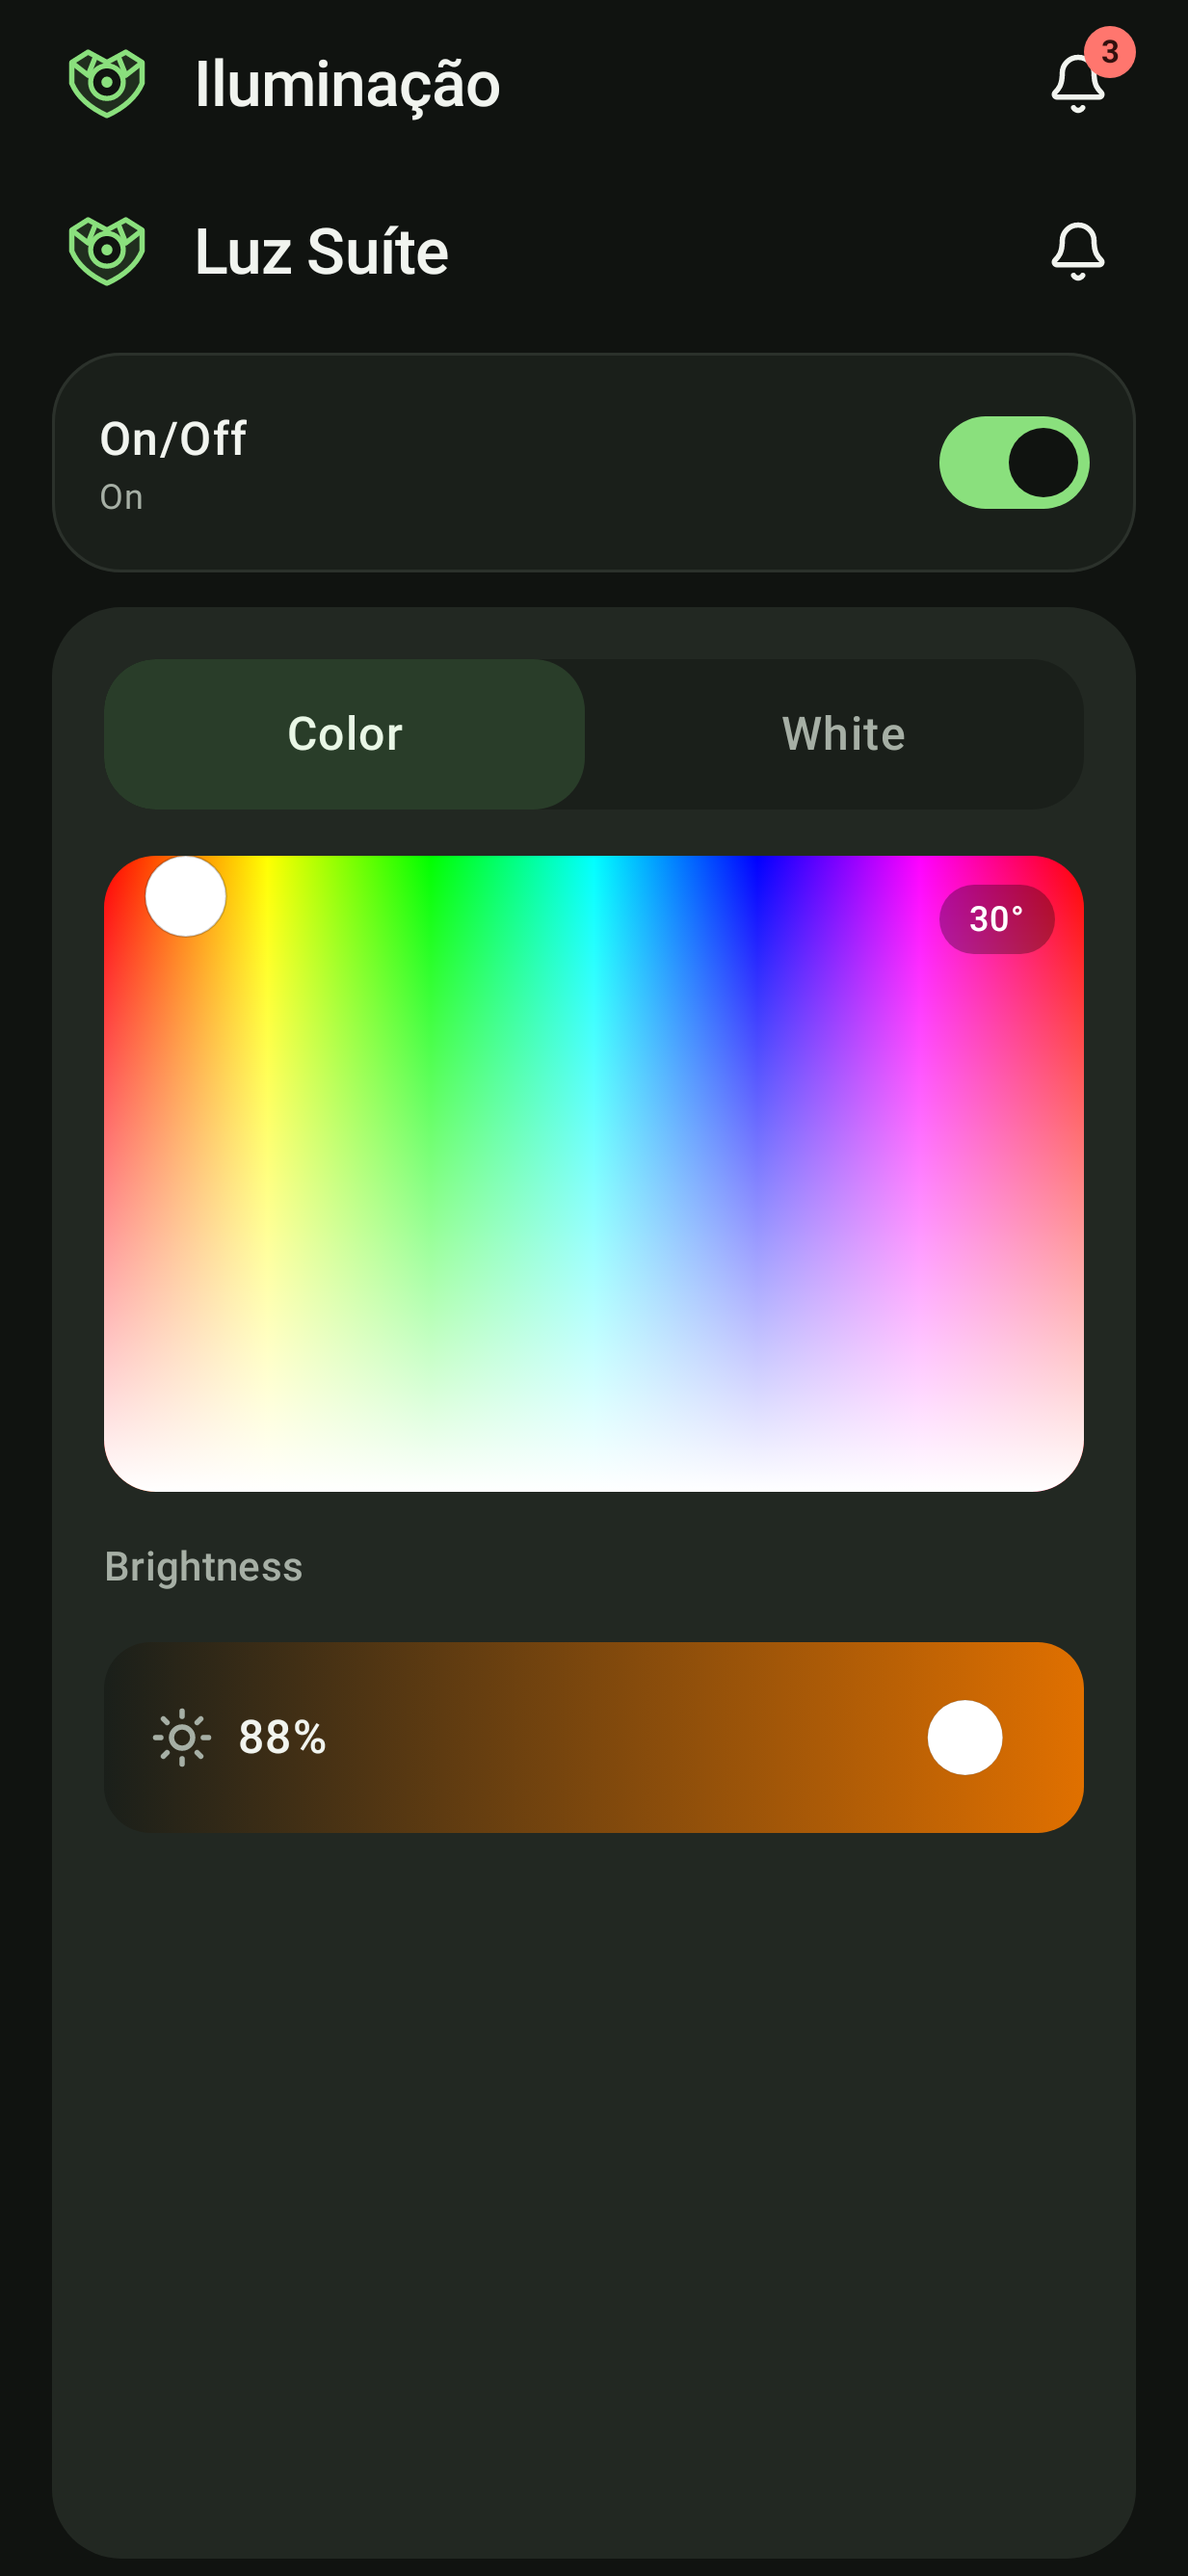
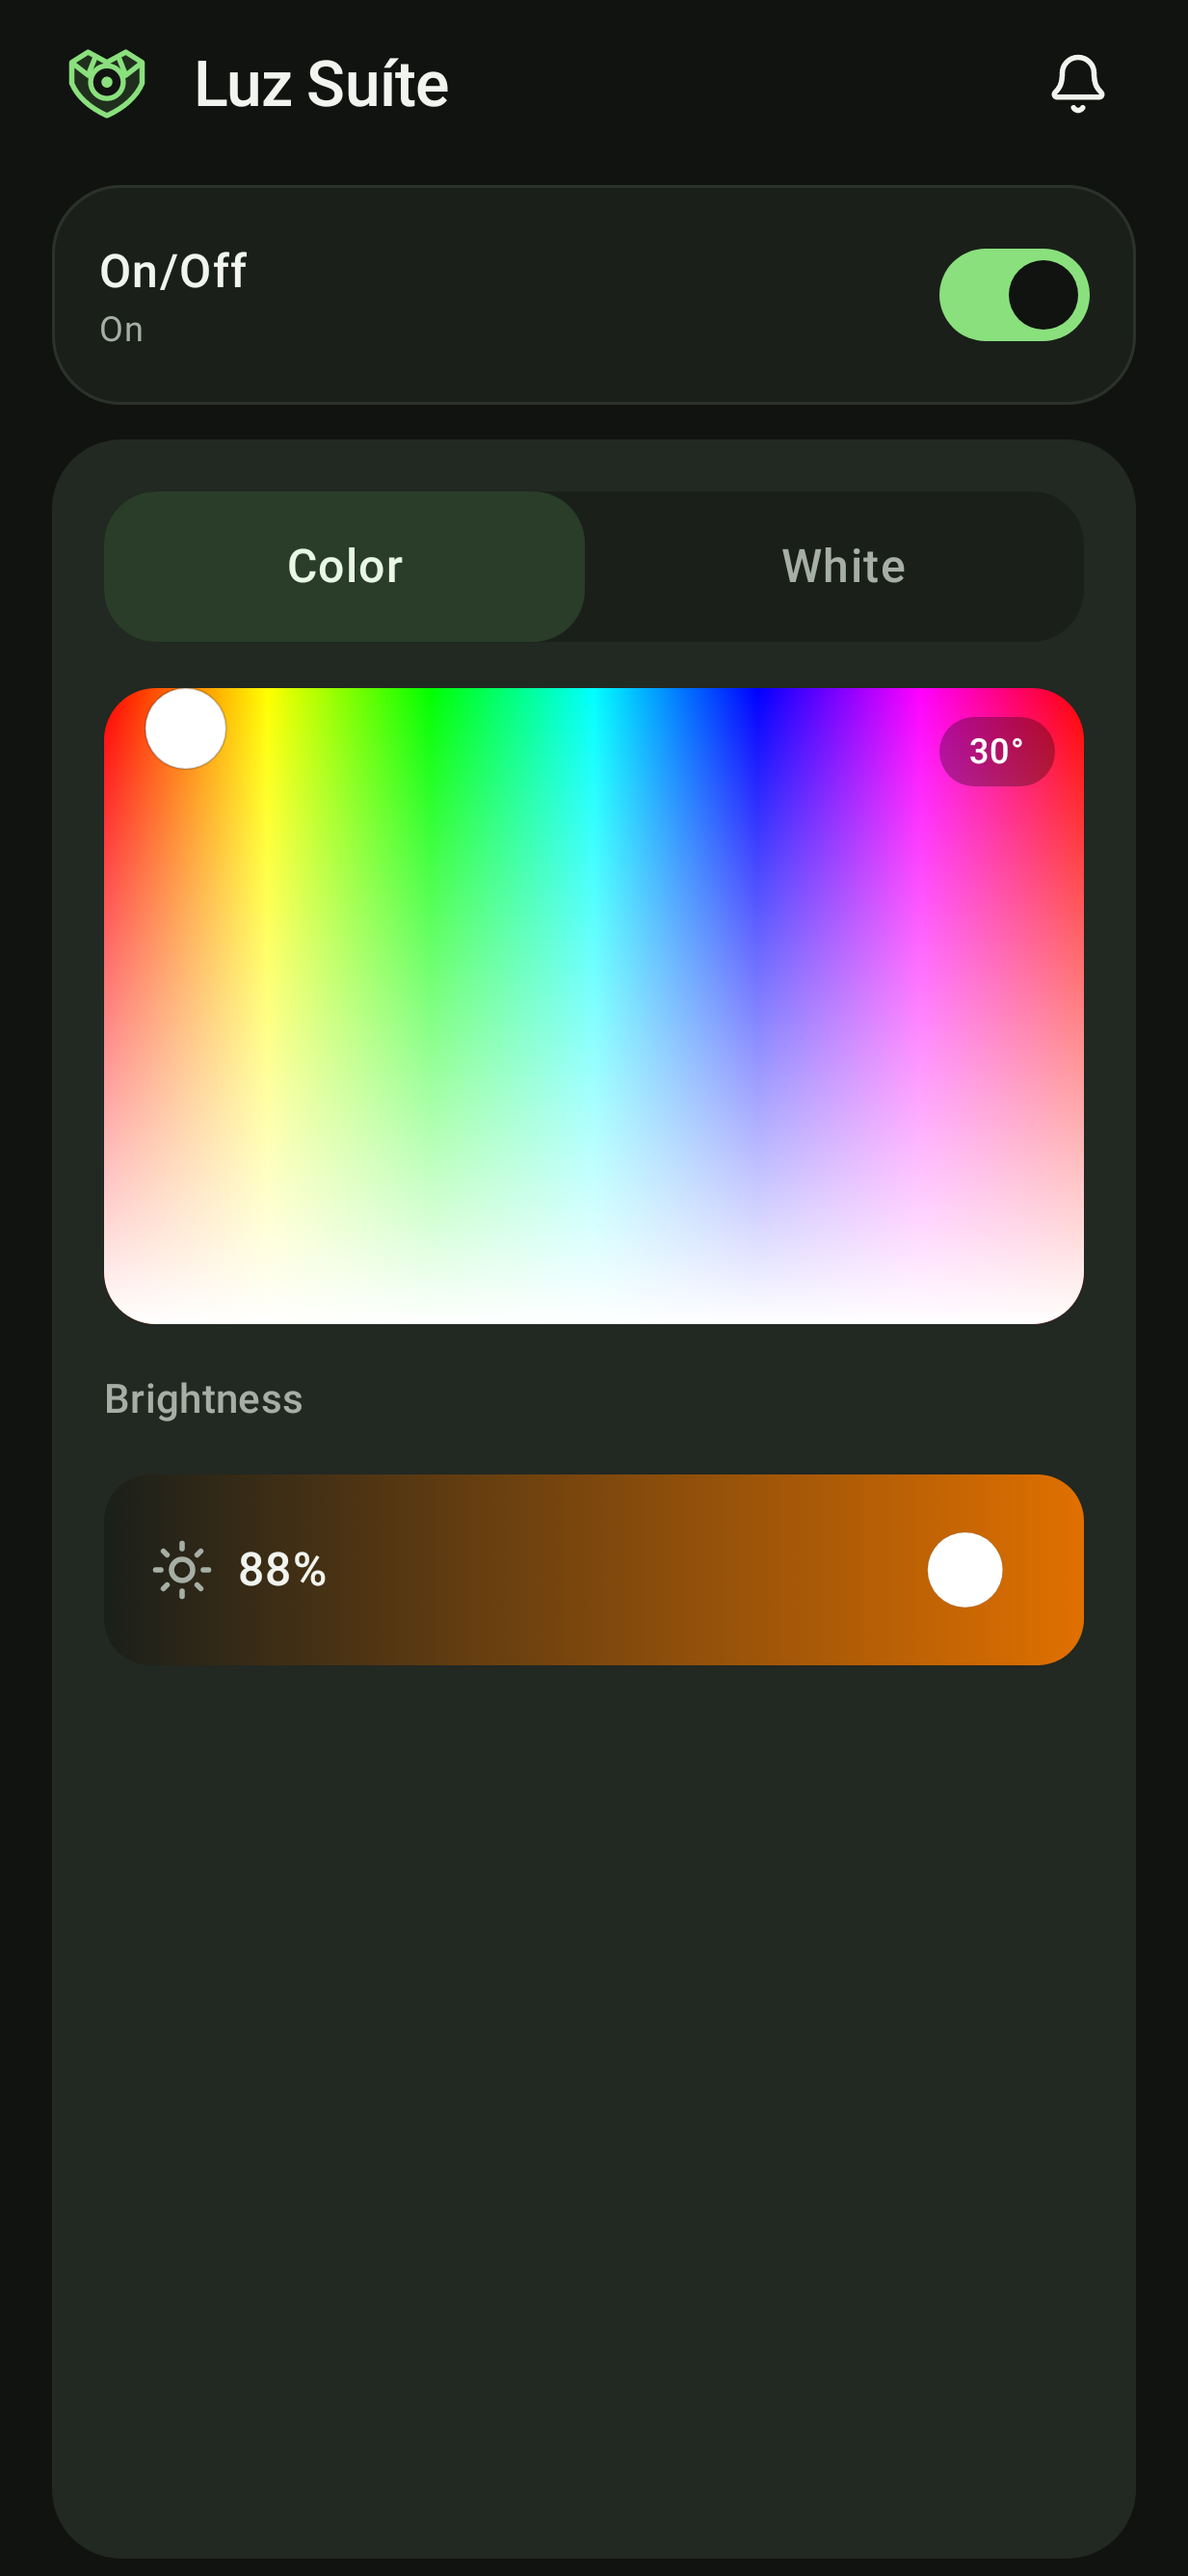
fix(app+landing): aviso de notificacoes lidas silenciado na origem do toast e capturas sem barra duplicada
- o toast "todas as notificacoes foram marcadas como lidas" nao aparece mais: a
  origem do toast ignora esse aviso (marcar como visto ao abrir e rotina)
- capturas da tela da luz refeitas sem a barra duplicada (o proprio conteudo ja
  traz a barra do app); lista de lampadas e tela da luz em claro e escuro

diff --git a/mobile/app/src/test/java/com/ferforastieri/valkyris/feature/lights/LandingScreenshotsTest.kt b/mobile/app/src/test/java/com/ferforastieri/valkyris/feature/lights/LandingScreenshotsTest.kt
@@ -54,6 +54,7 @@ class LandingScreenshotsTest {
         lastAddress = "192.0.2.111",
     )
 
+    /** Tela com a barra do app (usada nas telas que não trazem a própria). */
     private fun tela(modo: String, conteudo: @androidx.compose.runtime.Composable () -> Unit) {
         compose.setContent {
             ValkyrisTheme(mode = modo) {
@@ -61,6 +62,15 @@ class LandingScreenshotsTest {
                     ValkyrisTopBar(title = "Iluminação", onNotifications = {}, unreadNotifications = 3)
                     conteudo()
                 }
+            }
+        }
+    }
+
+    /** Tela cujo conteúdo já tem a barra do app (não duplicar). */
+    private fun telaPura(modo: String, conteudo: @androidx.compose.runtime.Composable () -> Unit) {
+        compose.setContent {
+            ValkyrisTheme(mode = modo) {
+                Column(Modifier.fillMaxSize().background(MaterialTheme.colorScheme.background)) { conteudo() }
             }
         }
     }
@@ -76,6 +86,6 @@ class LandingScreenshotsTest {
 
     @Test fun listaClara() { tela("light") { lista() }; compose.onRoot().captureRoboImage("build/screenshots/landing-lista-light.png") }
     @Test fun listaEscura() { tela("dark") { lista() }; compose.onRoot().captureRoboImage("build/screenshots/landing-lista-dark.png") }
-    @Test fun luzClara() { tela("light") { LightDetailContent(lamp("Luz Suíte", true, 30), false, {}, onChange = {}) }; compose.onRoot().captureRoboImage("build/screenshots/landing-luz-light.png") }
-    @Test fun luzEscura() { tela("dark") { LightDetailContent(lamp("Luz Suíte", true, 30), false, {}, onChange = {}) }; compose.onRoot().captureRoboImage("build/screenshots/landing-luz-dark.png") }
+    @Test fun luzClara() { telaPura("light") { LightDetailContent(lamp("Luz Suíte", true, 30), false, {}, onChange = {}) }; compose.onRoot().captureRoboImage("build/screenshots/landing-luz-light.png") }
+    @Test fun luzEscura() { telaPura("dark") { LightDetailContent(lamp("Luz Suíte", true, 30), false, {}, onChange = {}) }; compose.onRoot().captureRoboImage("build/screenshots/landing-luz-dark.png") }
 }

diff --git a/mobile/app/src/main/java/com/ferforastieri/valkyris/core/design/ToastMessageHost.kt b/mobile/app/src/main/java/com/ferforastieri/valkyris/core/design/ToastMessageHost.kt
@@ -49,6 +49,10 @@ fun ToastMessageHost(notices: Flow<ApiNotice>, modifier: Modifier = Modifier) {
     var current by remember { mutableStateOf<ApiNotice?>(null) }
     LaunchedEffect(notices) {
         notices.collectLatest { notice ->
+            // Aviso de "notificações lidas" não precisa aparecer: o app marca
+            // tudo como visto ao abrir, isso é rotina e não novidade.
+            val texto = notice.message.lowercase()
+            if (texto.contains("marcadas como lidas") || texto.contains("acknowledged")) return@collectLatest
             current = notice
             delay(6_000)
             if (current == notice) current = null
